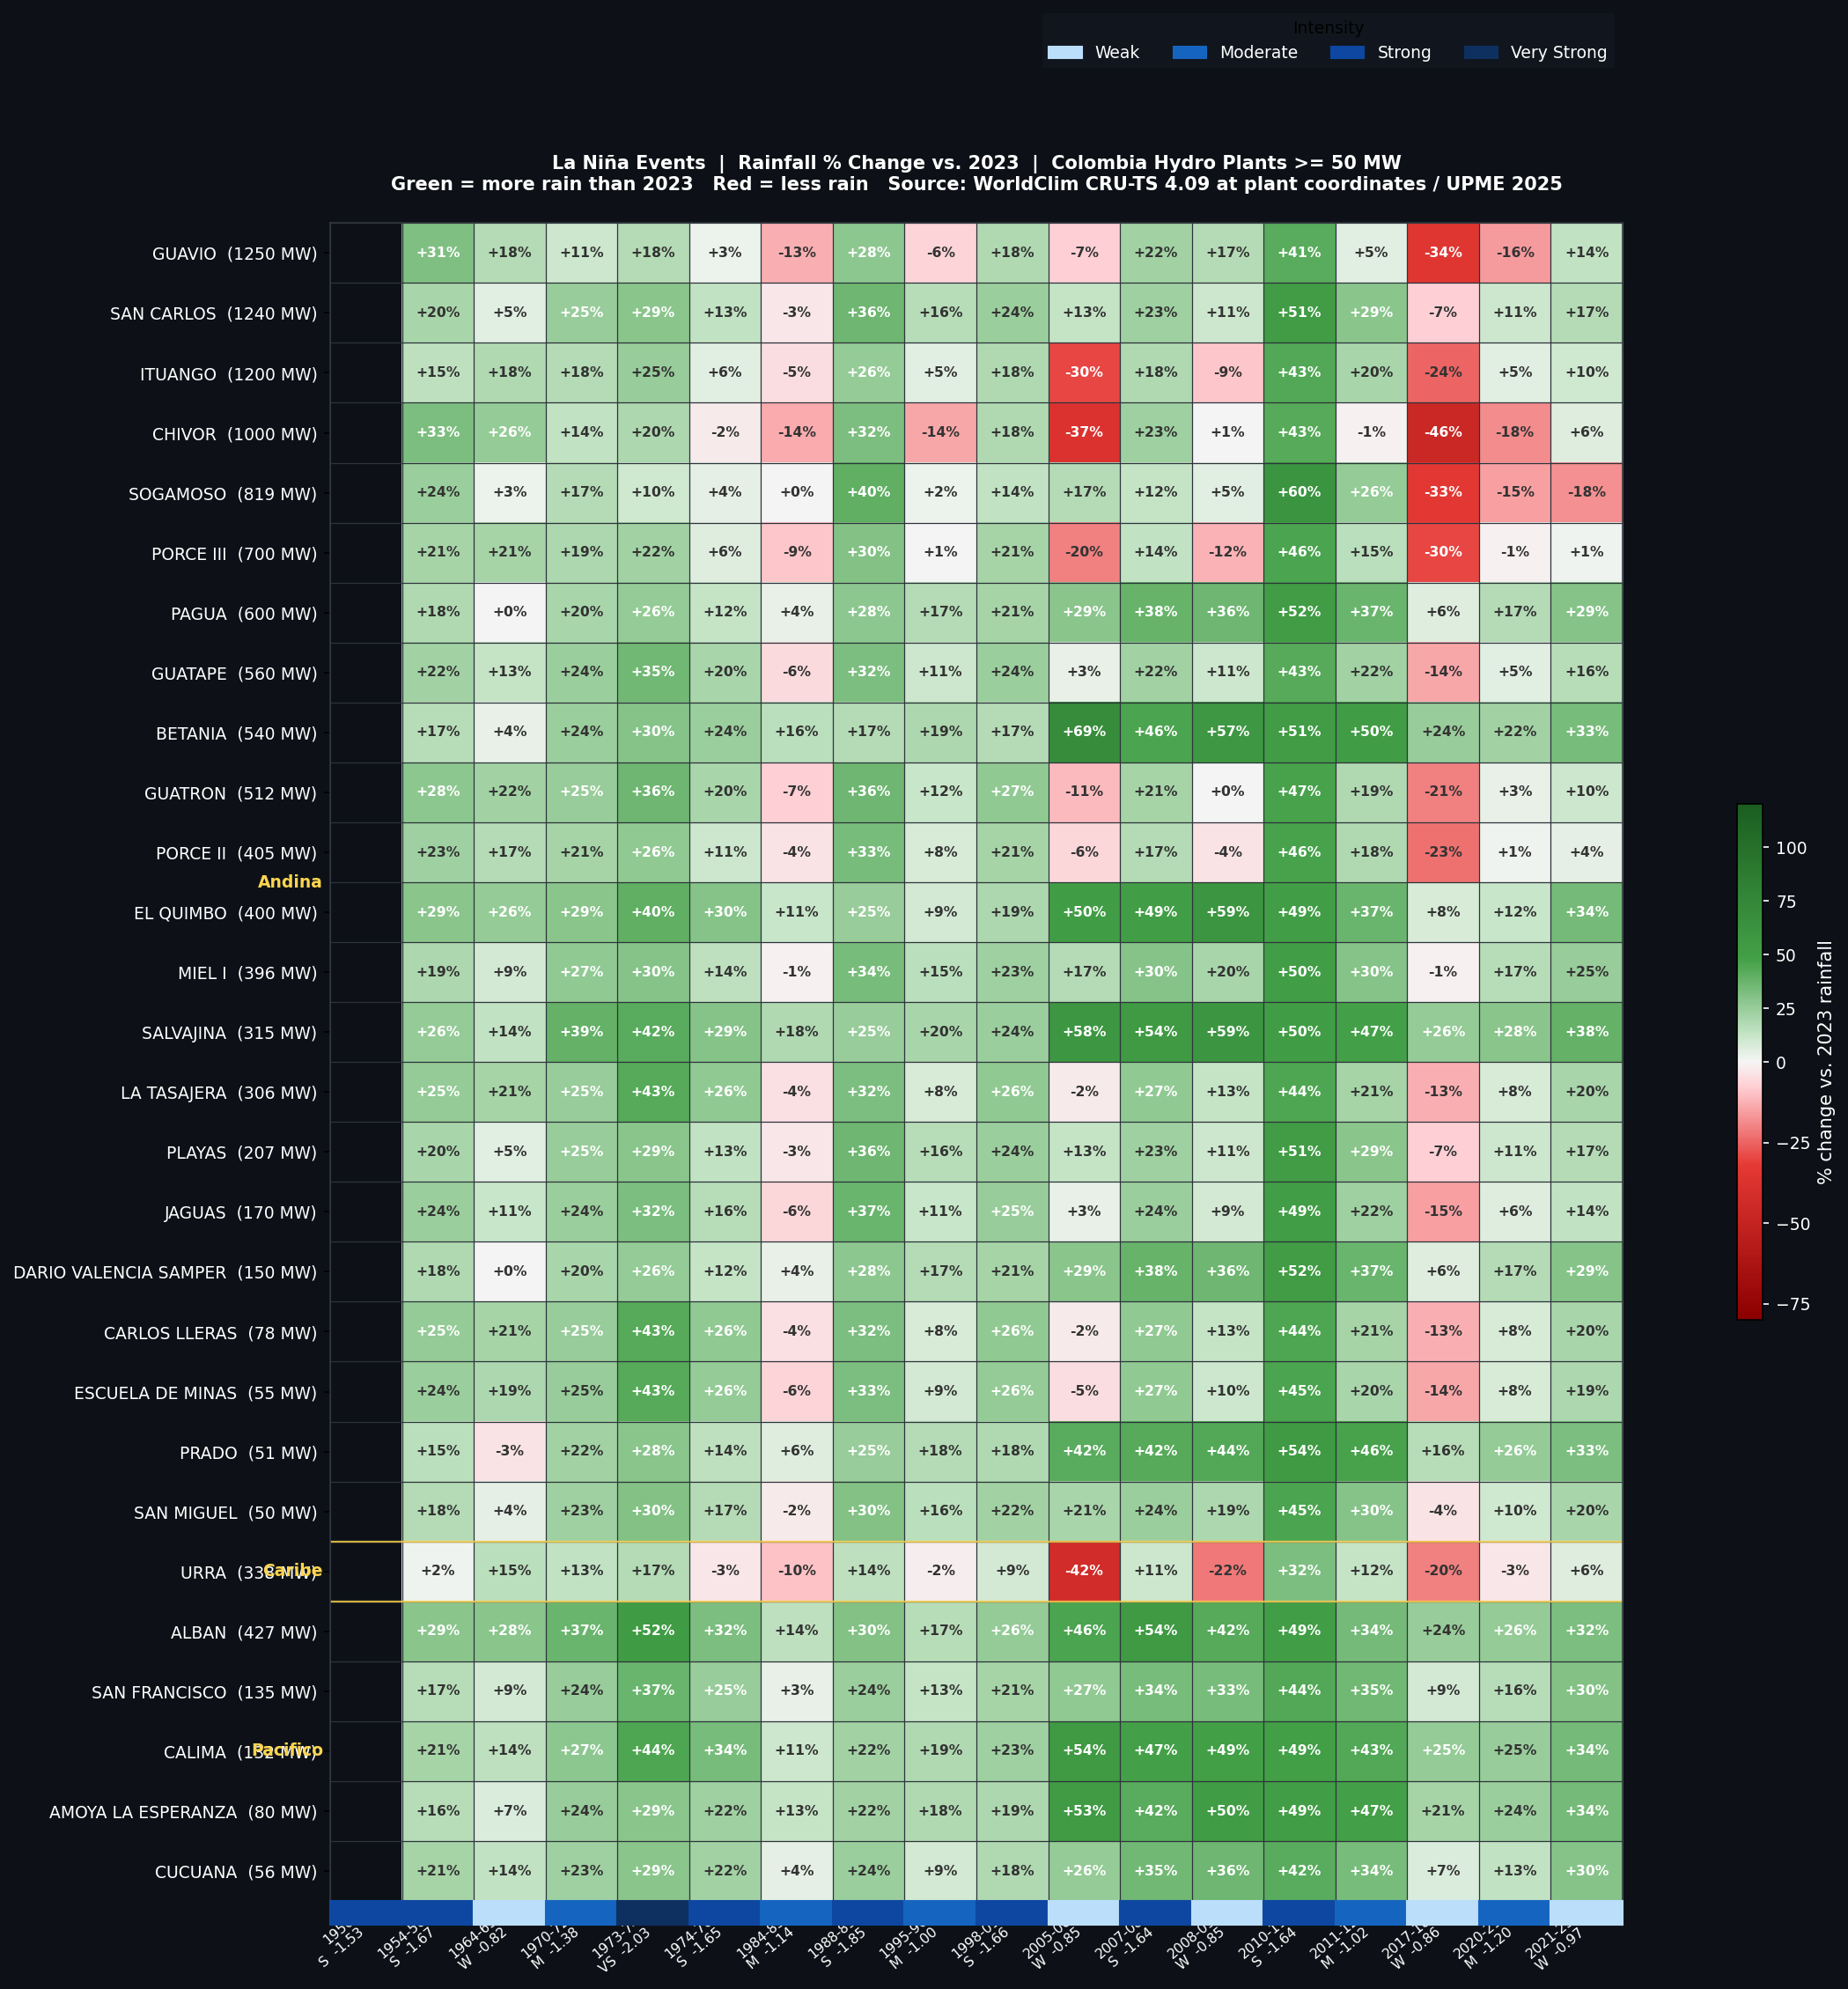
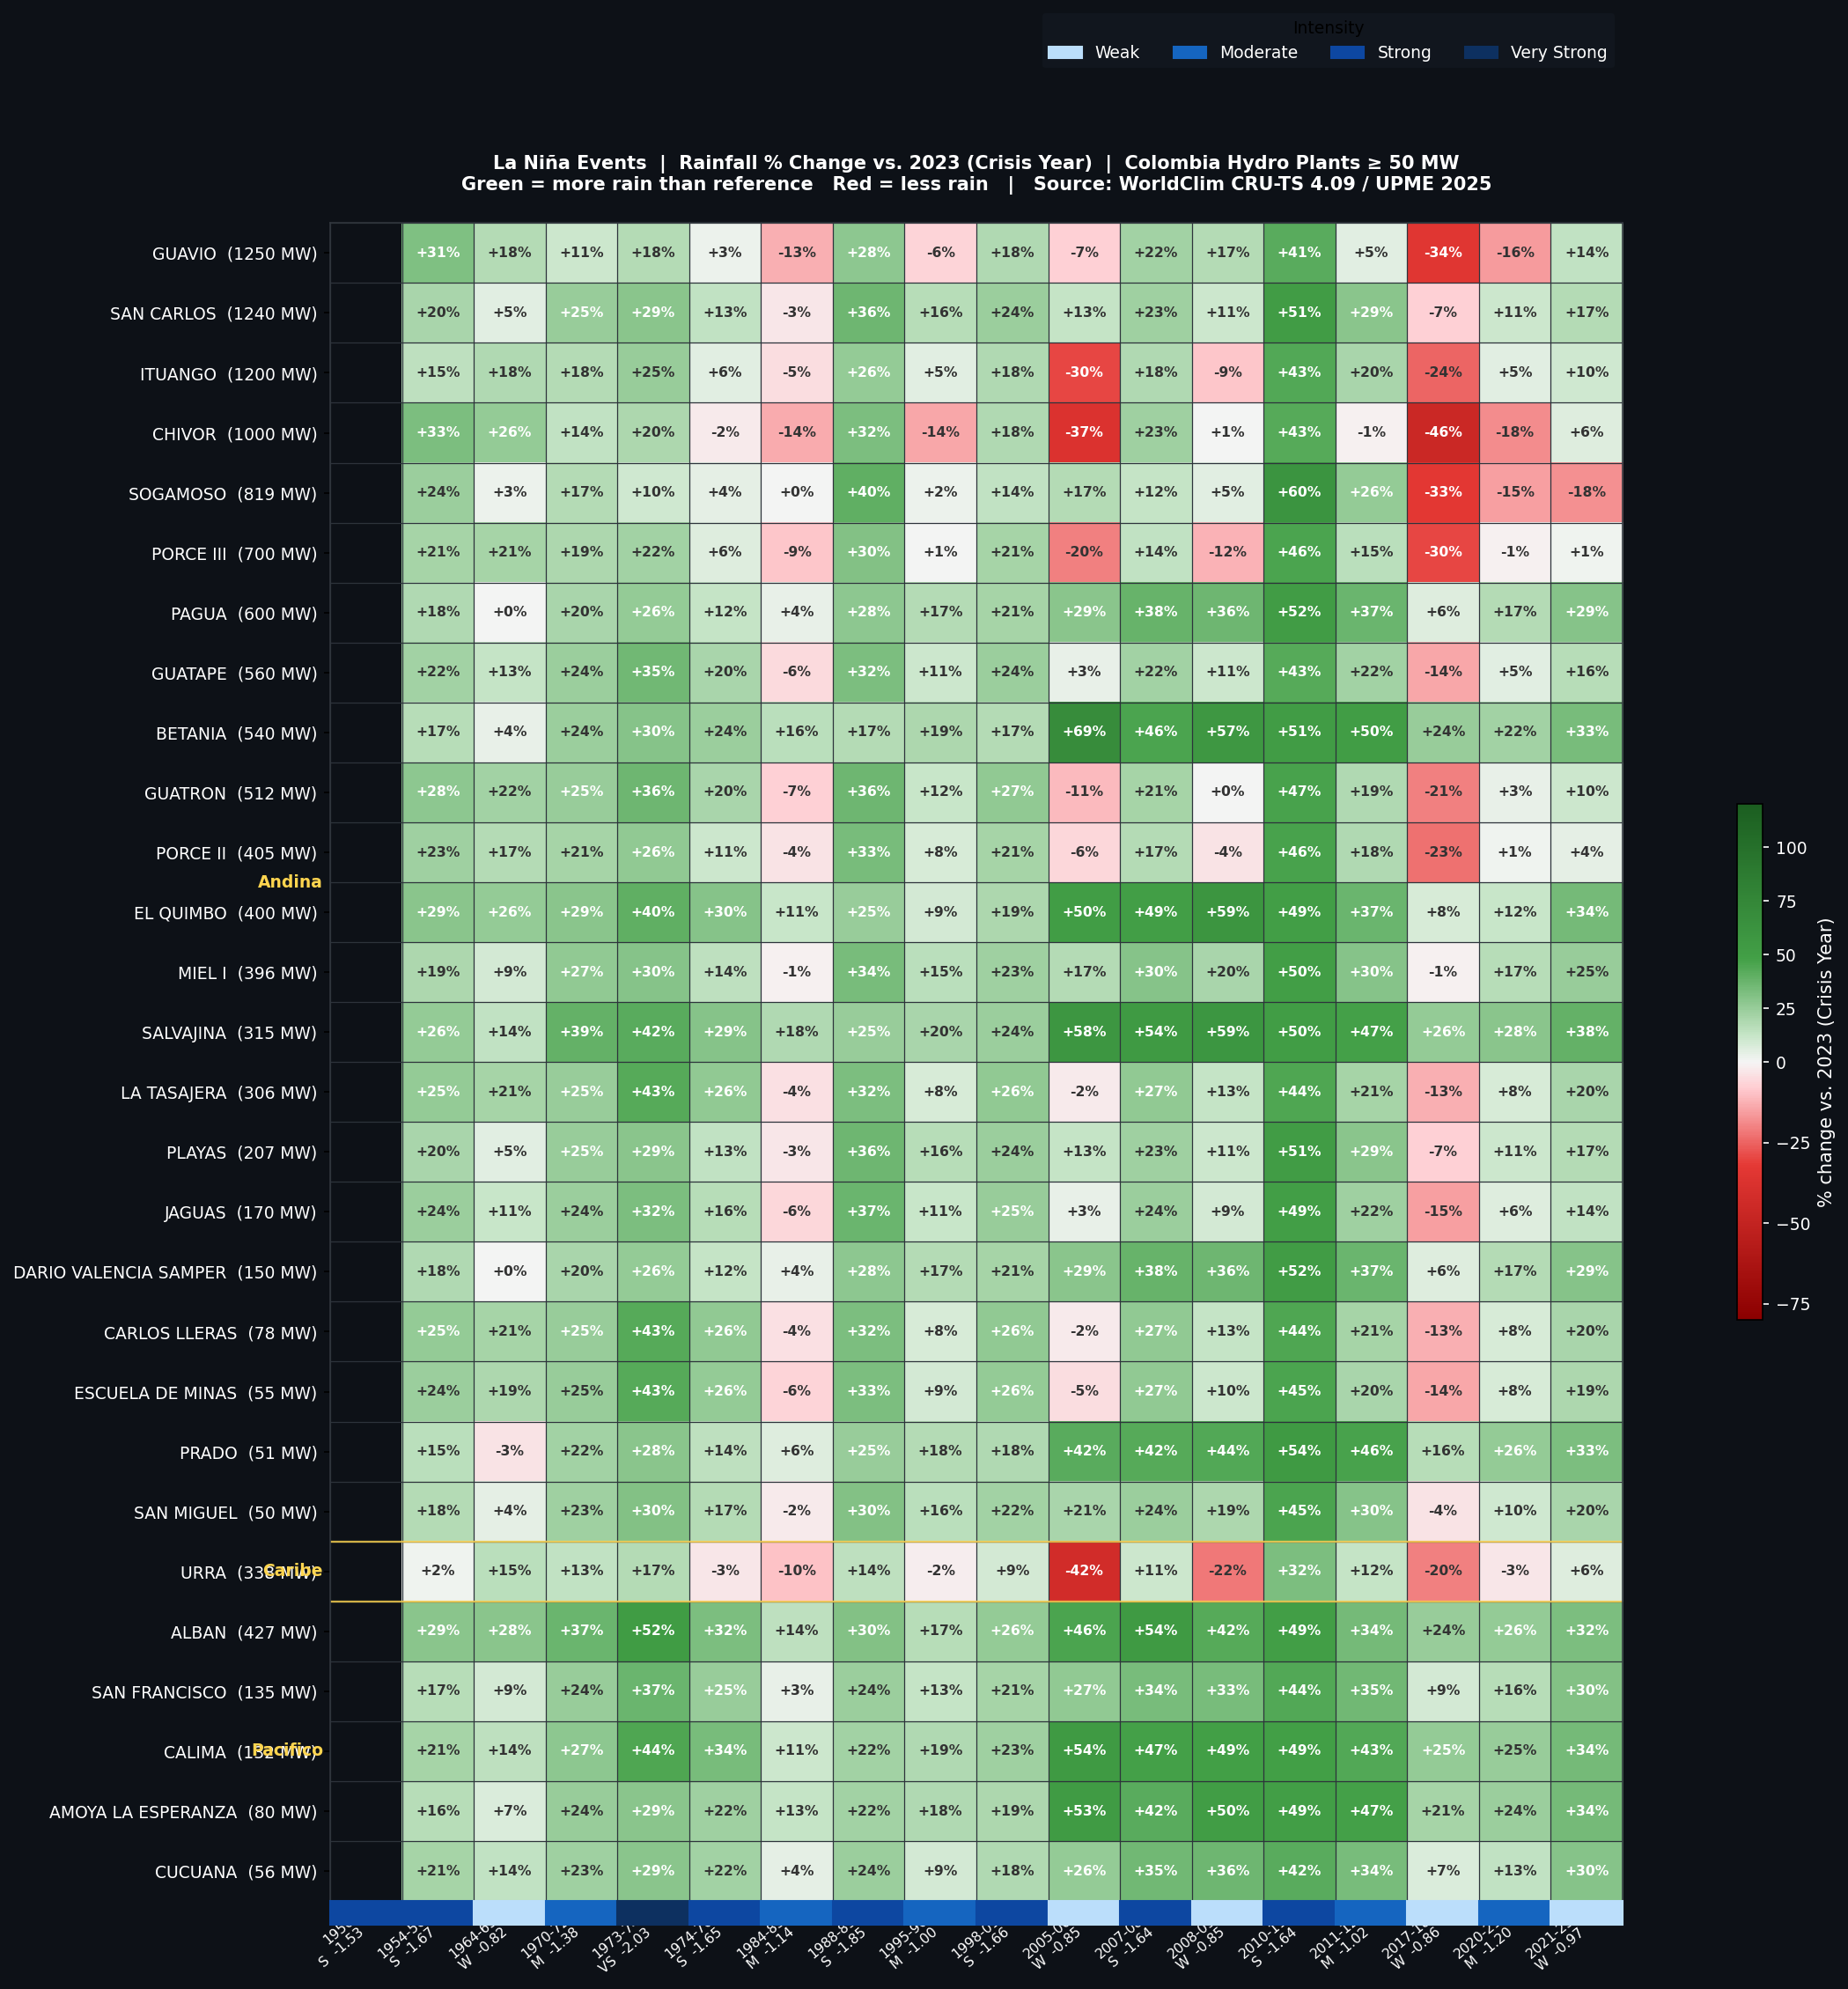
feat(electricidad): 4-toggle heatmaps for Colombia El Nino + La Nina
- Add 4-reference toggle to Colombia El Nino and La Nina cards (vs 2023 / 2019 / 2018-23 avg / full avg)
- MW-weighted stat boxes: El Nino 0-21% above ref (drought signal), La Nina 76-88% above ref (wet signal)
- Add 6 new Colombia heatmap PNGs (2 existing refreshed)
- Script: 23_heatmap_colombia_all_refs.py

Changed region(s): [[0.2477, 0.062, 0.8051, 0.093], [0.96, 0.4648, 0.9909, 0.5578]]

diff --git a/electricidad/index.html b/electricidad/index.html
@@ -130,8 +130,22 @@
   }
   .ref-btn-ln:hover{background:#EBEBEB;color:#333}
   .ref-btn-ln.ref-ln-active{background:#1565C0;color:#fff;font-weight:500}
+  .ref-btn-col{
+    padding:3px 11px;border:none;background:transparent;
+    font-size:10.5px;font-weight:400;color:#777;cursor:pointer;
+    transition:background .15s,color .15s;white-space:nowrap;
+  }
+  .ref-btn-col:hover{background:#EBEBEB;color:#333}
+  .ref-btn-col.ref-col-active{background:#B71C1C;color:#fff;font-weight:500}
+  .ref-btn-col-ln{
+    padding:3px 11px;border:none;background:transparent;
+    font-size:10.5px;font-weight:400;color:#777;cursor:pointer;
+    transition:background .15s,color .15s;white-space:nowrap;
+  }
+  .ref-btn-col-ln:hover{background:#EBEBEB;color:#333}
+  .ref-btn-col-ln.ref-col-ln-active{background:#1565C0;color:#fff;font-weight:500}
 
-</style>
+  /* ── Aequus nav ── */
 </head>
 <body>
 
@@ -266,27 +280,57 @@
   <!-- Colombia heatmaps (hidden by default) -->
   <div id="hmap-colombia" class="hmap-row" style="display:none">
     <div class="hmap-card">
-      <div class="hmap-header">
-        <span class="hmap-badge badge-en">El Ni&#241;o</span>
-        <div>
-          <div class="hmap-title">Rainfall Change During El Ni&#241;o Events vs. 2023  |  Colombia Hydro Plants &#8805; 50 MW</div>
-          <div class="hmap-sub">24 events · 1951–2024 · WorldClim CRU-TS 4.09 at plant coordinates · UPME 2025 · Click to enlarge</div>
+      <div class="hmap-header" style="flex-direction:column;align-items:flex-start;gap:8px;">
+        <div style="display:flex;align-items:center;gap:10px;width:100%;">
+          <span class="hmap-badge badge-en">El Ni&#241;o</span>
+          <div>
+            <div class="hmap-title">Rainfall Change During El Ni&#241;o Events  |  Colombia Hydro Plants &#8805; 50 MW</div>
+            <div class="hmap-sub">24 events · 1951–2024 · WorldClim CRU-TS 4.09 at plant coordinates · UPME 2025 · Click to enlarge</div>
+          </div>
+        </div>
+        <div style="display:flex;align-items:center;gap:8px;flex-wrap:wrap;">
+          <span style="font-size:10px;font-weight:500;color:#777;">Reference:</span>
+          <div style="display:flex;background:#F5F5F5;border:1px solid #E0E0E0;border-radius:16px;overflow:hidden;">
+            <button class="ref-btn-col ref-col-active" data-ref="2023"    onclick="setColEnRef(this)">vs 2023 (crisis)</button>
+            <button class="ref-btn-col"                data-ref="2019"    onclick="setColEnRef(this)">vs 2019 (wet year)</button>
+            <button class="ref-btn-col"                data-ref="avg1823" onclick="setColEnRef(this)">vs 2018–2023 avg</button>
+            <button class="ref-btn-col"                data-ref="full"    onclick="setColEnRef(this)">vs full sample avg</button>
+          </div>
+        </div>
+        <div style="display:flex;gap:8px;width:100%;align-items:stretch;">
+          <div id="col-en-ref-note" style="font-size:10px;color:#666;background:#FAFAFA;border:1px solid #EBEBEB;border-radius:6px;padding:5px 10px;line-height:1.55;flex:1;"></div>
+          <div id="col-en-ref-stat" style="font-size:10px;color:#444;background:#FAFAFA;border:1px solid #EBEBEB;border-radius:6px;padding:5px 12px;line-height:1.55;white-space:nowrap;text-align:center;display:flex;flex-direction:column;justify-content:center;gap:1px;flex-shrink:0;"></div>
         </div>
       </div>
       <div class="hmap-img-wrap">
-        <img class="hmap-img" src="figures/heatmap_colombia_elnino_vs_2023.png" alt="Colombia El Nino heatmap" title="Click to enlarge"/>
+        <img class="hmap-img" id="col-elnino-hmap-img" src="figures/heatmap_colombia_elnino_vs_2023.png" alt="Colombia El Nino heatmap" title="Click to enlarge"/>
       </div>
     </div>
     <div class="hmap-card">
-      <div class="hmap-header">
-        <span class="hmap-badge badge-ln">La Ni&#241;a</span>
-        <div>
-          <div class="hmap-title">Rainfall Change During La Ni&#241;a Events vs. 2023  |  Colombia Hydro Plants &#8805; 50 MW</div>
-          <div class="hmap-sub">18 events · 1951–2023 · WorldClim CRU-TS 4.09 at plant coordinates · UPME 2025 · Click to enlarge</div>
+      <div class="hmap-header" style="flex-direction:column;align-items:flex-start;gap:8px;">
+        <div style="display:flex;align-items:center;gap:10px;width:100%;">
+          <span class="hmap-badge badge-ln">La Ni&#241;a</span>
+          <div>
+            <div class="hmap-title">Rainfall Change During La Ni&#241;a Events  |  Colombia Hydro Plants &#8805; 50 MW</div>
+            <div class="hmap-sub">18 events · 1951–2024 · WorldClim CRU-TS 4.09 at plant coordinates · UPME 2025 · Click to enlarge</div>
+          </div>
+        </div>
+        <div style="display:flex;align-items:center;gap:8px;flex-wrap:wrap;">
+          <span style="font-size:10px;font-weight:500;color:#777;">Reference:</span>
+          <div style="display:flex;background:#F5F5F5;border:1px solid #E0E0E0;border-radius:16px;overflow:hidden;">
+            <button class="ref-btn-col-ln ref-col-ln-active" data-ref="2023"    onclick="setColLnRef(this)">vs 2023 (crisis)</button>
+            <button class="ref-btn-col-ln"                   data-ref="2019"    onclick="setColLnRef(this)">vs 2019 (wet year)</button>
+            <button class="ref-btn-col-ln"                   data-ref="avg1823" onclick="setColLnRef(this)">vs 2018–2023 avg</button>
+            <button class="ref-btn-col-ln"                   data-ref="full"    onclick="setColLnRef(this)">vs full sample avg</button>
+          </div>
+        </div>
+        <div style="display:flex;gap:8px;width:100%;align-items:stretch;">
+          <div id="col-ln-ref-note" style="font-size:10px;color:#666;background:#FAFAFA;border:1px solid #EBEBEB;border-radius:6px;padding:5px 10px;line-height:1.55;flex:1;"></div>
+          <div id="col-ln-ref-stat" style="font-size:10px;color:#444;background:#FAFAFA;border:1px solid #EBEBEB;border-radius:6px;padding:5px 12px;line-height:1.55;white-space:nowrap;text-align:center;display:flex;flex-direction:column;justify-content:center;gap:1px;flex-shrink:0;"></div>
         </div>
       </div>
       <div class="hmap-img-wrap">
-        <img class="hmap-img" src="figures/heatmap_colombia_lanina_vs_2023.png" alt="Colombia La Nina heatmap" title="Click to enlarge"/>
+        <img class="hmap-img" id="col-lanina-hmap-img" src="figures/heatmap_colombia_lanina_vs_2023.png" alt="Colombia La Nina heatmap" title="Click to enlarge"/>
       </div>
     </div>
   </div>
@@ -432,6 +476,62 @@
 
   // Initialise La Niña on load
   setLninaRef(document.querySelector('.ref-btn-ln.ref-ln-active'));
+
+  // ── Colombia El Niño reference toggle ─────────────────────────────────────
+  const COL_EN_NOTES = {
+    "2023":    "<strong>vs 2023 — Crisis year (Ecuador).</strong> 2023 was dry in Ecuador but near-normal for Colombia. El Niño typically reduces Colombian rainfall — red cells confirm drier conditions.",
+    "2019":    "<strong>vs 2019 — Wet year.</strong> 2019 was relatively wet in Colombia. El Niño episodes are substantially drier vs this benchmark.",
+    "avg1823": "<strong>vs 2018–2023 avg — Modern baseline.</strong> Recent operating period. Shows how El Niño deviates from recent normal conditions in Colombia.",
+    "full":    "<strong>vs full sample avg (1951–2024) — Climatological mean.</strong> Long-run historical norm. El Niño = structurally drier than average across Colombian hydro.",
+  };
+  const COL_EN_STATS = {
+    "2023":    { pct: 20.8, n:  5, of: 24, label: "vs 2023 reference" },
+    "2019":    { pct: 16.7, n:  4, of: 24, label: "vs 2019 wet-year level" },
+    "avg1823": { pct:  0.0, n:  0, of: 24, label: "vs 2018–2023 average" },
+    "full":    { pct:  4.2, n:  1, of: 24, label: "vs full sample average" },
+  };
+  function setColEnRef(btn) {
+    document.querySelectorAll('.ref-btn-col').forEach(b => b.classList.remove('ref-col-active'));
+    btn.classList.add('ref-col-active');
+    const ref = btn.dataset.ref;
+    document.getElementById('col-elnino-hmap-img').src = `figures/heatmap_colombia_elnino_vs_${ref}.png`;
+    document.getElementById('col-en-ref-note').innerHTML = COL_EN_NOTES[ref];
+    const s = COL_EN_STATS[ref];
+    const col = s.pct >= 50 ? '#2E7D32' : '#B71C1C';
+    document.getElementById('col-en-ref-stat').innerHTML =
+      `<span style="font-size:18px;font-weight:700;color:${col};">${s.pct.toFixed(1)}%</span>` +
+      `<span style="font-size:9px;color:#888;">MW-weighted episodes above<br>${s.label}</span>` +
+      `<span style="font-size:9px;color:#aaa;">(${s.n} of ${s.of} events)</span>`;
+  }
+  setColEnRef(document.querySelector('.ref-btn-col.ref-col-active'));
+
+  // ── Colombia La Niña reference toggle ─────────────────────────────────────
+  const COL_LN_NOTES = {
+    "2023":    "<strong>vs 2023 — Crisis year (Ecuador).</strong> La Niña strongly wets Colombian catchments — most episodes show clearly higher rainfall than the 2023 reference.",
+    "2019":    "<strong>vs 2019 — Wet year.</strong> Even vs a wet benchmark, La Niña episodes deliver more rainfall across most Colombian hydro regions.",
+    "avg1823": "<strong>vs 2018–2023 avg — Modern baseline.</strong> La Niña is structurally wetter than the recent modern average across Colombian plants.",
+    "full":    "<strong>vs full sample avg (1951–2024) — Climatological mean.</strong> La Niña episodes are consistently above the long-run historical norm for Colombian hydro.",
+  };
+  const COL_LN_STATS = {
+    "2023":    { pct: 88.2, n: 15, of: 17, label: "vs 2023 reference" },
+    "2019":    { pct: 82.4, n: 14, of: 17, label: "vs 2019 wet-year level" },
+    "avg1823": { pct: 76.5, n: 13, of: 17, label: "vs 2018–2023 average" },
+    "full":    { pct: 82.4, n: 14, of: 17, label: "vs full sample average" },
+  };
+  function setColLnRef(btn) {
+    document.querySelectorAll('.ref-btn-col-ln').forEach(b => b.classList.remove('ref-col-ln-active'));
+    btn.classList.add('ref-col-ln-active');
+    const ref = btn.dataset.ref;
+    document.getElementById('col-lanina-hmap-img').src = `figures/heatmap_colombia_lanina_vs_${ref}.png`;
+    document.getElementById('col-ln-ref-note').innerHTML = COL_LN_NOTES[ref];
+    const s = COL_LN_STATS[ref];
+    const col = s.pct >= 50 ? '#2E7D32' : '#B71C1C';
+    document.getElementById('col-ln-ref-stat').innerHTML =
+      `<span style="font-size:18px;font-weight:700;color:${col};">${s.pct.toFixed(1)}%</span>` +
+      `<span style="font-size:9px;color:#888;">MW-weighted episodes above<br>${s.label}</span>` +
+      `<span style="font-size:9px;color:#aaa;">(${s.n} of ${s.of} events)</span>`;
+  }
+  setColLnRef(document.querySelector('.ref-btn-col-ln.ref-col-ln-active'));
 </script>
 <script>
 function aeToggleNav(btn){btn.nextElementSibling.classList.toggle('open')}